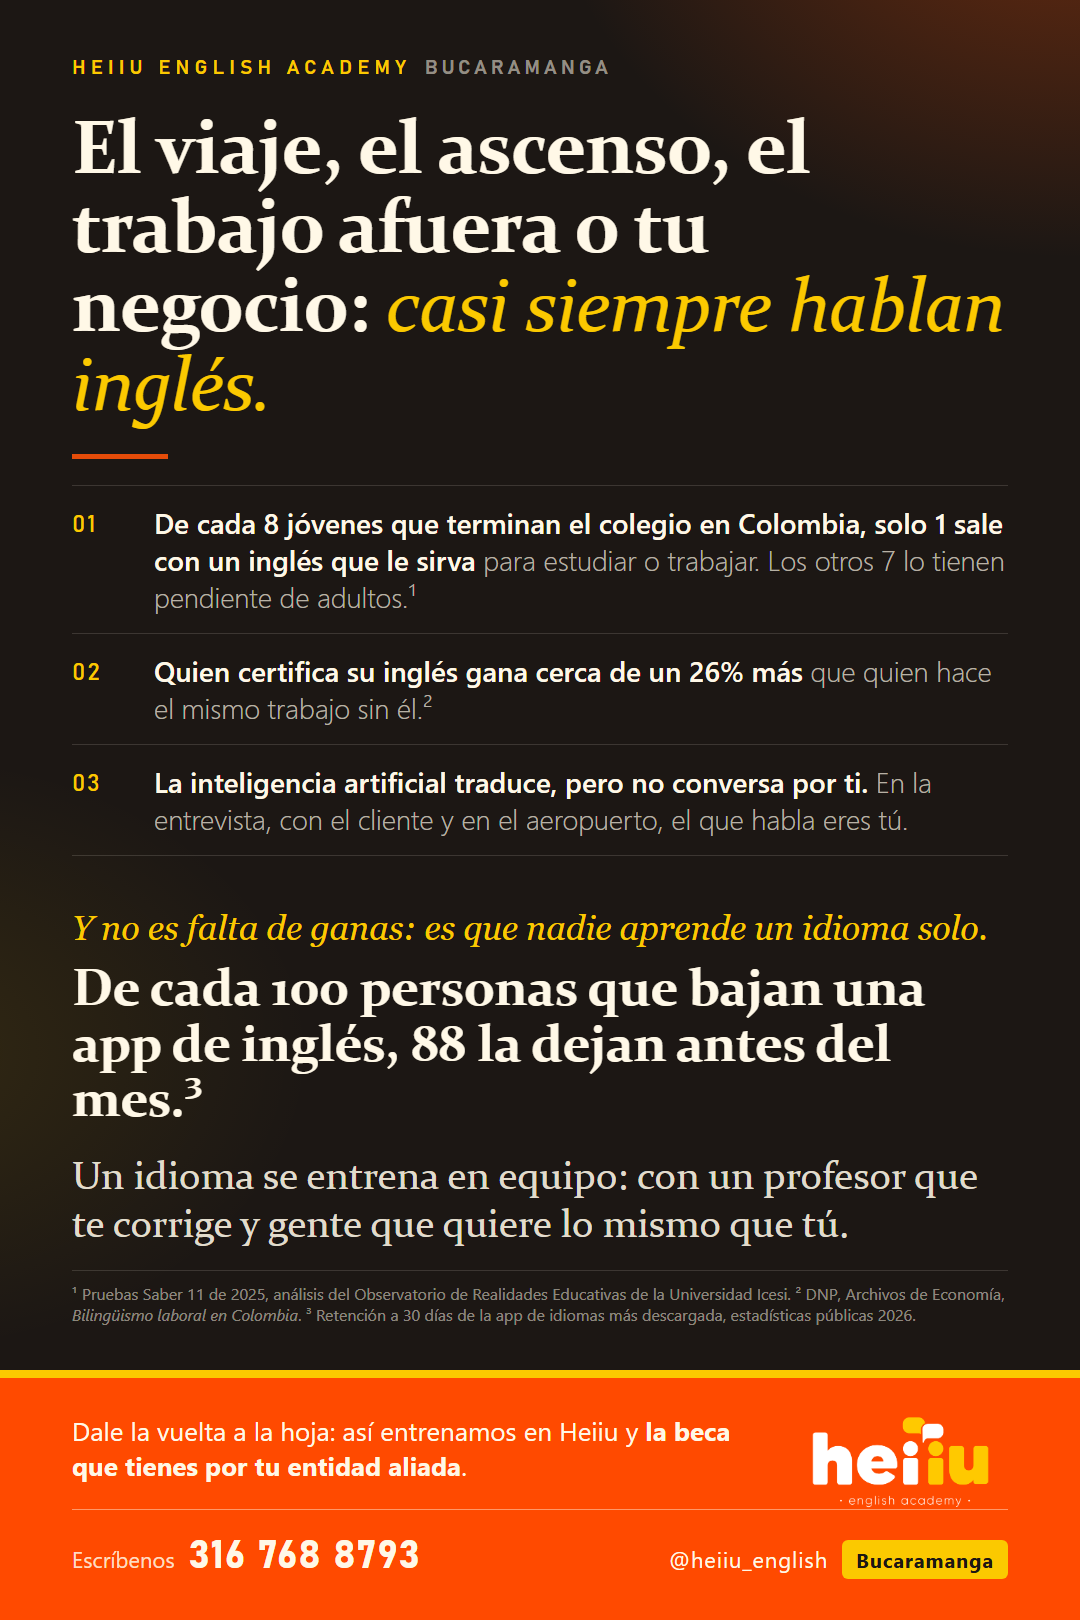
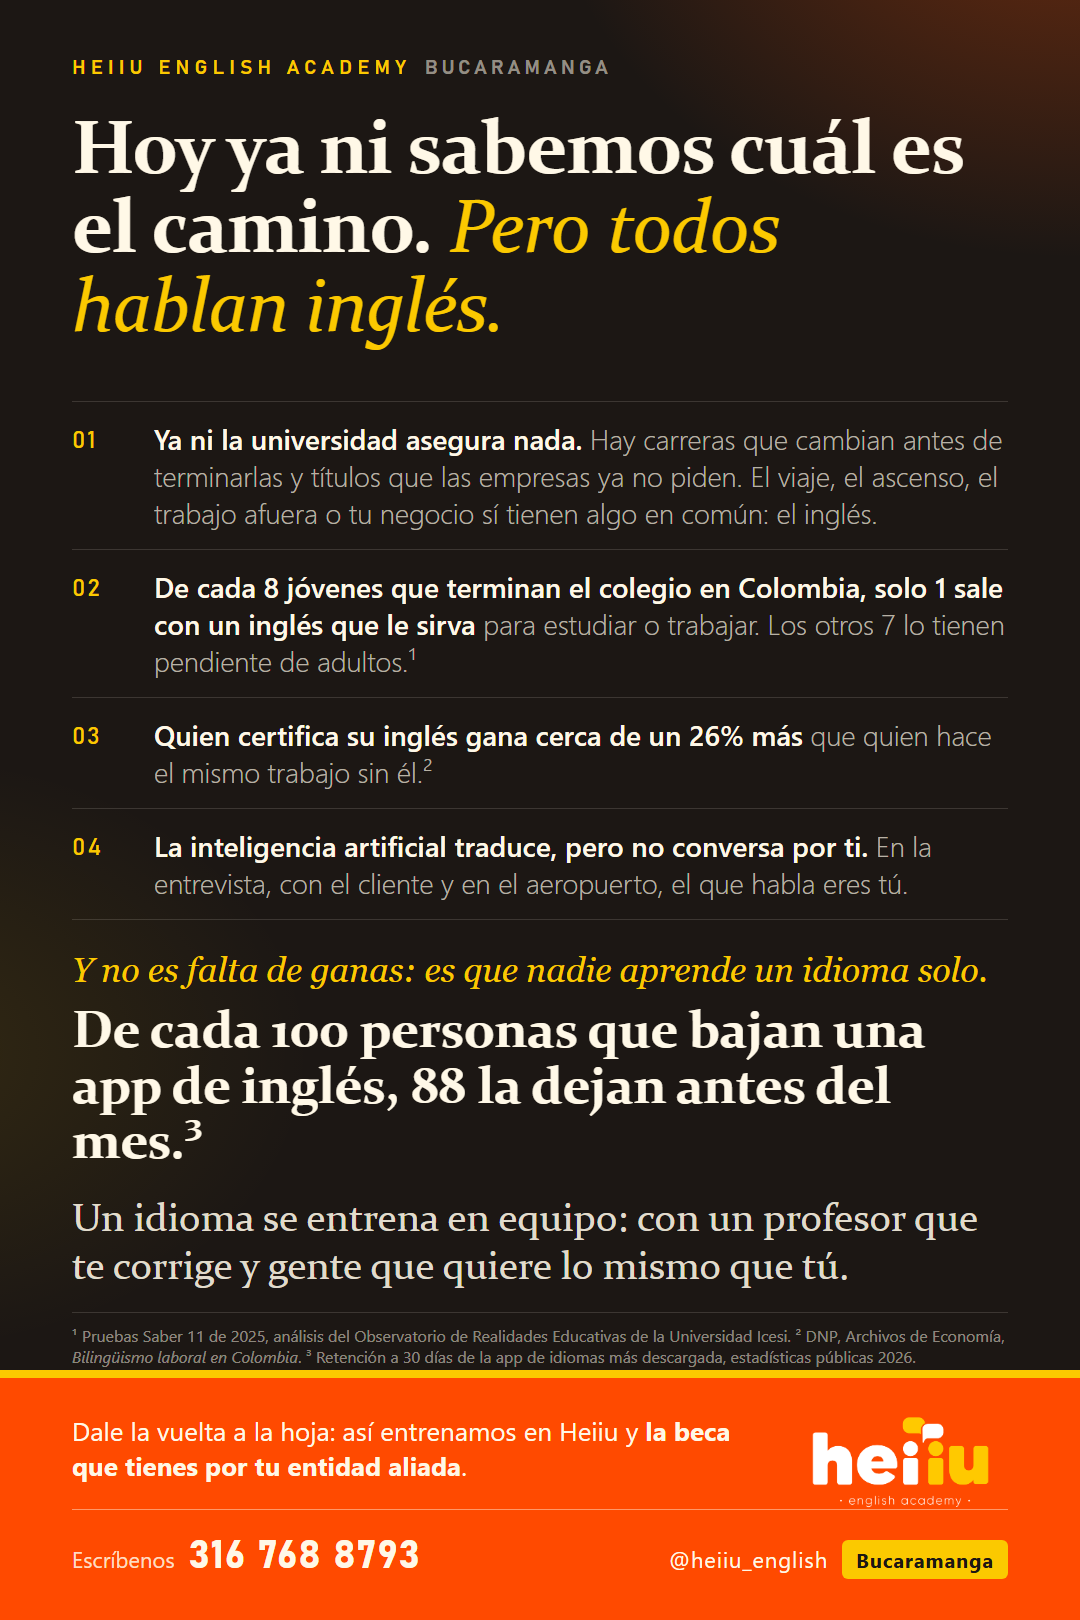
Pieza general frente: titular 'ya ni sabemos cual es el camino, pero todos hablan ingles' y punto sobre la universidad y los titulos

diff --git a/generadores/comercial/gen_piezas_conciencia.py b/generadores/comercial/gen_piezas_conciencia.py
@@ -102,8 +102,9 @@ PIEZAS = {
         band_px=340),
     'GENERAL_ASESORAS_FRENTE': dict(   # hoja que la asesora de la entidad aliada entrega o reenvia; cara 1: conciencia con cifras verificadas (fuentes al pie)
         compact=True, label='HEIIU ENGLISH ACADEMY', sub='BUCARAMANGA',
-        h1='El viaje, el ascenso, el trabajo afuera o tu negocio: <em>casi siempre hablan inglés.</em>',
-        st=[('<b>De cada 8 jóvenes que terminan el colegio en Colombia, solo 1 sale con un inglés que le sirva</b> para estudiar o trabajar. Los otros 7 lo tienen pendiente de adultos.¹'),
+        h1='Hoy ya ni sabemos cuál es el camino. <em>Pero todos hablan inglés.</em>',
+        st=[('<b>Ya ni la universidad asegura nada.</b> Hay carreras que cambian antes de terminarlas y títulos que las empresas ya no piden. El viaje, el ascenso, el trabajo afuera o tu negocio sí tienen algo en común: el inglés.'),
+            ('<b>De cada 8 jóvenes que terminan el colegio en Colombia, solo 1 sale con un inglés que le sirva</b> para estudiar o trabajar. Los otros 7 lo tienen pendiente de adultos.¹'),
             ('<b>Quien certifica su inglés gana cerca de un 26% más</b> que quien hace el mismo trabajo sin él.²'),
             ('<b>La inteligencia artificial traduce, pero no conversa por ti.</b> En la entrevista, con el cliente y en el aeropuerto, el que habla eres tú.')],
         lead='Y no es falta de ganas: es que nadie aprende un idioma solo.',
